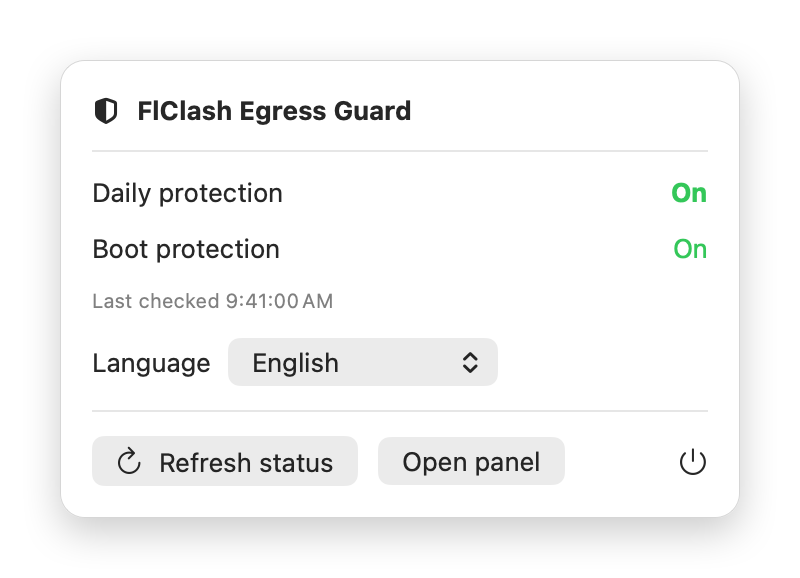
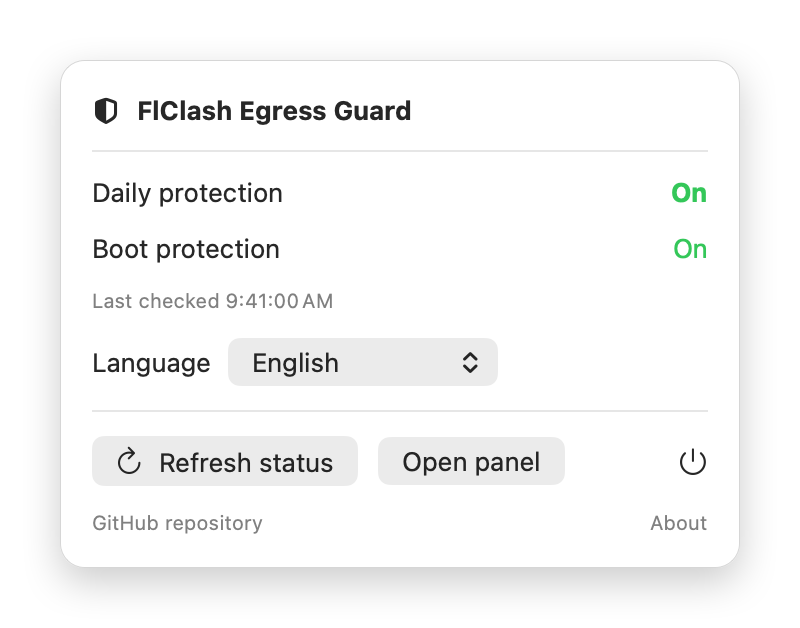
Add localized GitHub links and About window

diff --git a/app/main.swift b/app/main.swift
@@ -605,11 +605,38 @@ struct GuardPanel: View {
     }
 }
 
+enum AppLinks {
+    static let repository = URL(string: "https://github.com/madgiraffe1/flclash-egress-guard")!
+    static let author = URL(string: "https://github.com/madgiraffe1")!
+}
+
+struct AboutPanel: View {
+    @ObservedObject private var localization = Localization.shared
+
+    private var version: String { Bundle.main.object(forInfoDictionaryKey: "CFBundleShortVersionString") as? String ?? "—" }
+
+    var body: some View {
+        VStack(spacing: 12) {
+            Image(systemName: "shield.lefthalf.filled")
+                .font(.system(size: 40)).foregroundStyle(Color(red: 0.08, green: 0.42, blue: 0.68))
+            Text(L10n.text("FlClash 出网保护")).font(.title2.weight(.semibold))
+            Text(L10n.text("版本 %@", version)).foregroundStyle(.secondary)
+            Text(L10n.text("MIT 许可")).font(.callout).foregroundStyle(.secondary)
+            Divider().padding(.vertical, 4)
+            HStack(spacing: 24) {
+                Link(L10n.text("GitHub 仓库"), destination: AppLinks.repository)
+                Link(L10n.text("作者主页"), destination: AppLinks.author)
+            }.buttonStyle(.link)
+        }.padding(24).frame(width: 380).background(Color(nsColor: .windowBackgroundColor))
+    }
+}
+
 struct MenuPanel: View {
     @ObservedObject var model: Controls
     @ObservedObject private var localization = Localization.shared
     let refresh: () -> Void
     let openPanel: () -> Void
+    let showAbout: () -> Void
     let quit: () -> Void
 
     var body: some View {
@@ -649,6 +676,11 @@ struct MenuPanel: View {
                     .buttonStyle(.plain).help(L10n.text("退出状态栏 App，防火墙继续运行"))
                     .accessibilityLabel(L10n.text("退出状态栏 App"))
             }
+            HStack {
+                Link(L10n.text("GitHub 仓库"), destination: AppLinks.repository)
+                Spacer()
+                Button(L10n.text("关于"), action: showAbout)
+            }.font(.caption).buttonStyle(.plain).foregroundStyle(.secondary)
         }.padding(16).frame(width: localization.menuWidth)
     }
 }
@@ -660,6 +692,8 @@ final class AppDelegate: NSObject, NSApplicationDelegate, NSWindowDelegate {
     private let popover = NSPopover()
     private var observer: AnyCancellable?
     private var languageObserver: AnyCancellable?
+    private var aboutItem: NSMenuItem?
+    private var aboutWindow: NSWindow?
     private var quitItem: NSMenuItem?
 
     func applicationDidFinishLaunching(_ notification: Notification) {
@@ -667,6 +701,11 @@ final class AppDelegate: NSObject, NSApplicationDelegate, NSWindowDelegate {
         main.addItem(item); item.submenu = appMenu
         item.title = L10n.text("FlClash 出网保护")
         appMenu.title = L10n.text("FlClash 出网保护")
+        let about = NSMenuItem(title: L10n.text("关于"), action: #selector(showAbout), keyEquivalent: "")
+        about.target = self
+        appMenu.addItem(about)
+        appMenu.addItem(.separator())
+        aboutItem = about
         let quit = NSMenuItem(title: L10n.text("退出出网保护面板"), action: #selector(NSApplication.terminate(_:)), keyEquivalent: "q")
         appMenu.addItem(quit)
         quitItem = quit
@@ -710,7 +749,8 @@ final class AppDelegate: NSObject, NSApplicationDelegate, NSWindowDelegate {
             guard let self = self else { return }
             self.popover.behavior = .applicationDefined
             self.controls.start("status")
-        }, openPanel: { [weak self] in self?.openPanel(verify: false) }, quit: { NSApp.terminate(nil) })
+        }, openPanel: { [weak self] in self?.openPanel(verify: false) },
+           showAbout: { [weak self] in self?.showAbout() }, quit: { NSApp.terminate(nil) })
         popover.contentViewController = NSHostingController(rootView: panel)
         popover.behavior = .transient
         popover.animates = false
@@ -741,6 +781,8 @@ final class AppDelegate: NSObject, NSApplicationDelegate, NSWindowDelegate {
 
     private func updateLanguage() {
         window.title = L10n.text("FlClash 出网保护")
+        aboutItem?.title = L10n.text("关于")
+        aboutWindow?.title = L10n.text("关于")
         quitItem?.title = L10n.text("退出出网保护面板")
         NSApp.mainMenu?.items.first?.title = L10n.text("FlClash 出网保护")
         NSApp.mainMenu?.items.first?.submenu?.title = L10n.text("FlClash 出网保护")
@@ -751,6 +793,22 @@ final class AppDelegate: NSObject, NSApplicationDelegate, NSWindowDelegate {
         }
         if let content = popover.contentViewController?.view { popover.contentSize = content.fittingSize }
         updateIcon()
+    }
+
+    @objc private func showAbout() {
+        if popover.isShown { popover.performClose(nil) }
+        if aboutWindow == nil {
+            let host = NSHostingController(rootView: AboutPanel())
+            let about = NSWindow(contentViewController: host)
+            about.title = L10n.text("关于")
+            about.styleMask = [.titled, .closable]
+            about.isReleasedWhenClosed = false
+            about.setContentSize(host.view.fittingSize)
+            about.center()
+            aboutWindow = about
+        }
+        NSApp.activate(ignoringOtherApps: true)
+        aboutWindow?.makeKeyAndOrderFront(nil)
     }
 
     @objc private func togglePopover() {

diff --git a/docs/tools/RenderScreenshots.swift b/docs/tools/RenderScreenshots.swift
@@ -1,8 +1,8 @@
 // Renders the README screenshots from the app's real SwiftUI views.
 //
 // render-screenshots.sh appends this file to a copy of app/main.swift with its
-// final launch lines removed, so the views below are the shipping GuardPanel and
-// MenuPanel. Nothing here starts guard-guide, the system helper, pfctl or any
+// final launch lines removed, so the views below are the shipping GuardPanel,
+// MenuPanel and AboutPanel. Nothing here starts guard-guide, the system helper, pfctl or any
 // network request: each scene only assigns sample values to the view model and
 // draws offscreen. Sample data contains no real addresses or user names.
 
@@ -140,7 +140,7 @@ final class ScreenshotRenderer {
     }
 
     func captureMenu(_ model: Controls) -> (NSBitmapImageRep, NSSize) {
-        let host = NSHostingView(rootView: MenuPanel(model: model, refresh: {}, openPanel: {}, quit: {})
+        let host = NSHostingView(rootView: MenuPanel(model: model, refresh: {}, openPanel: {}, showAbout: {}, quit: {})
             .environment(\.controlActiveState, .key))
         let size = host.fittingSize
         let window = ActiveLookingWindow(contentRect: NSRect(origin: NSPoint(x: -30000, y: -30000), size: size),
@@ -151,6 +151,23 @@ final class ScreenshotRenderer {
         RunLoop.current.run(until: Date().addingTimeInterval(0.4))
         let rep = bitmap(size: size)
         host.cacheDisplay(in: host.bounds, to: rep)
+        window.close()
+        return (rep, size)
+    }
+
+    func captureAbout() -> (NSBitmapImageRep, NSSize) {
+        let host = NSHostingController(rootView: AboutPanel().environment(\.controlActiveState, .key))
+        let window = ActiveLookingWindow(contentViewController: host)
+        window.title = L10n.text("关于")
+        window.styleMask = [.titled, .closable]
+        window.appearance = NSAppearance(named: .aqua)
+        window.setContentSize(host.view.fittingSize)
+        window.setFrameOrigin(NSPoint(x: -30000, y: -30000))
+        RunLoop.current.run(until: Date().addingTimeInterval(0.4))
+        let frameView = window.contentView!.superview!
+        let size = frameView.bounds.size
+        let rep = bitmap(size: size)
+        frameView.cacheDisplay(in: frameView.bounds, to: rep)
         window.close()
         return (rep, size)
     }
@@ -324,6 +341,9 @@ final class ScreenshotRenderer {
         // 7. Menu-bar popover.
         let (menu, menuSize) = captureMenu(connected(boot: "on"))
         write(compose(menu, size: menuSize, radius: 12), "ui-menubar.png")
+
+        let (about, aboutSize) = captureAbout()
+        write(compose(about, size: aboutSize, radius: 12), "ui-about.png")
 
         menuIcons()
         animation([firstRun, waiting, connected(boot: "off"), locked, connected(boot: "on")])

diff --git a/README.md b/README.md
@@ -133,6 +133,8 @@ When the panel shows **On** with a green dot, you're protected. The app has chec
 
 Click the shield for a quick status. **Open panel** opens the full window, and the power button quits the menu-bar app. **Quitting the app doesn't turn protection off.**
 
+The footer's **GitHub repository** link opens the source in your default browser. **About** shows the app name, version, MIT license, repository and author profile; it is also available in the app menu.
+
 <p align="center"><img src="docs/images/ui-menubar.en.png" width="348" alt="Menu-bar popover: Daily protection On, Boot protection On, buttons Refresh status and Open panel"></p>
 
 | Icon | Panel shows | Meaning |

diff --git a/CHANGELOG.md b/CHANGELOG.md
@@ -12,6 +12,7 @@ The format is based on [Keep a Changelog](https://keepachangelog.com/en/1.1.0/),
 
 ### Added
 
+- Bilingual GitHub repository link in the menu-bar footer and an About window with the app version, MIT license and author profile.
 - English and Simplified Chinese interfaces, with a remembered language choice and system-language default (English for non-Chinese systems).
 - English README screenshots and bilingual walkthrough GIFs rendered from the app's views without starting protection services.
 - User guide in English and Simplified Chinese, with screenshots and illustrations.
